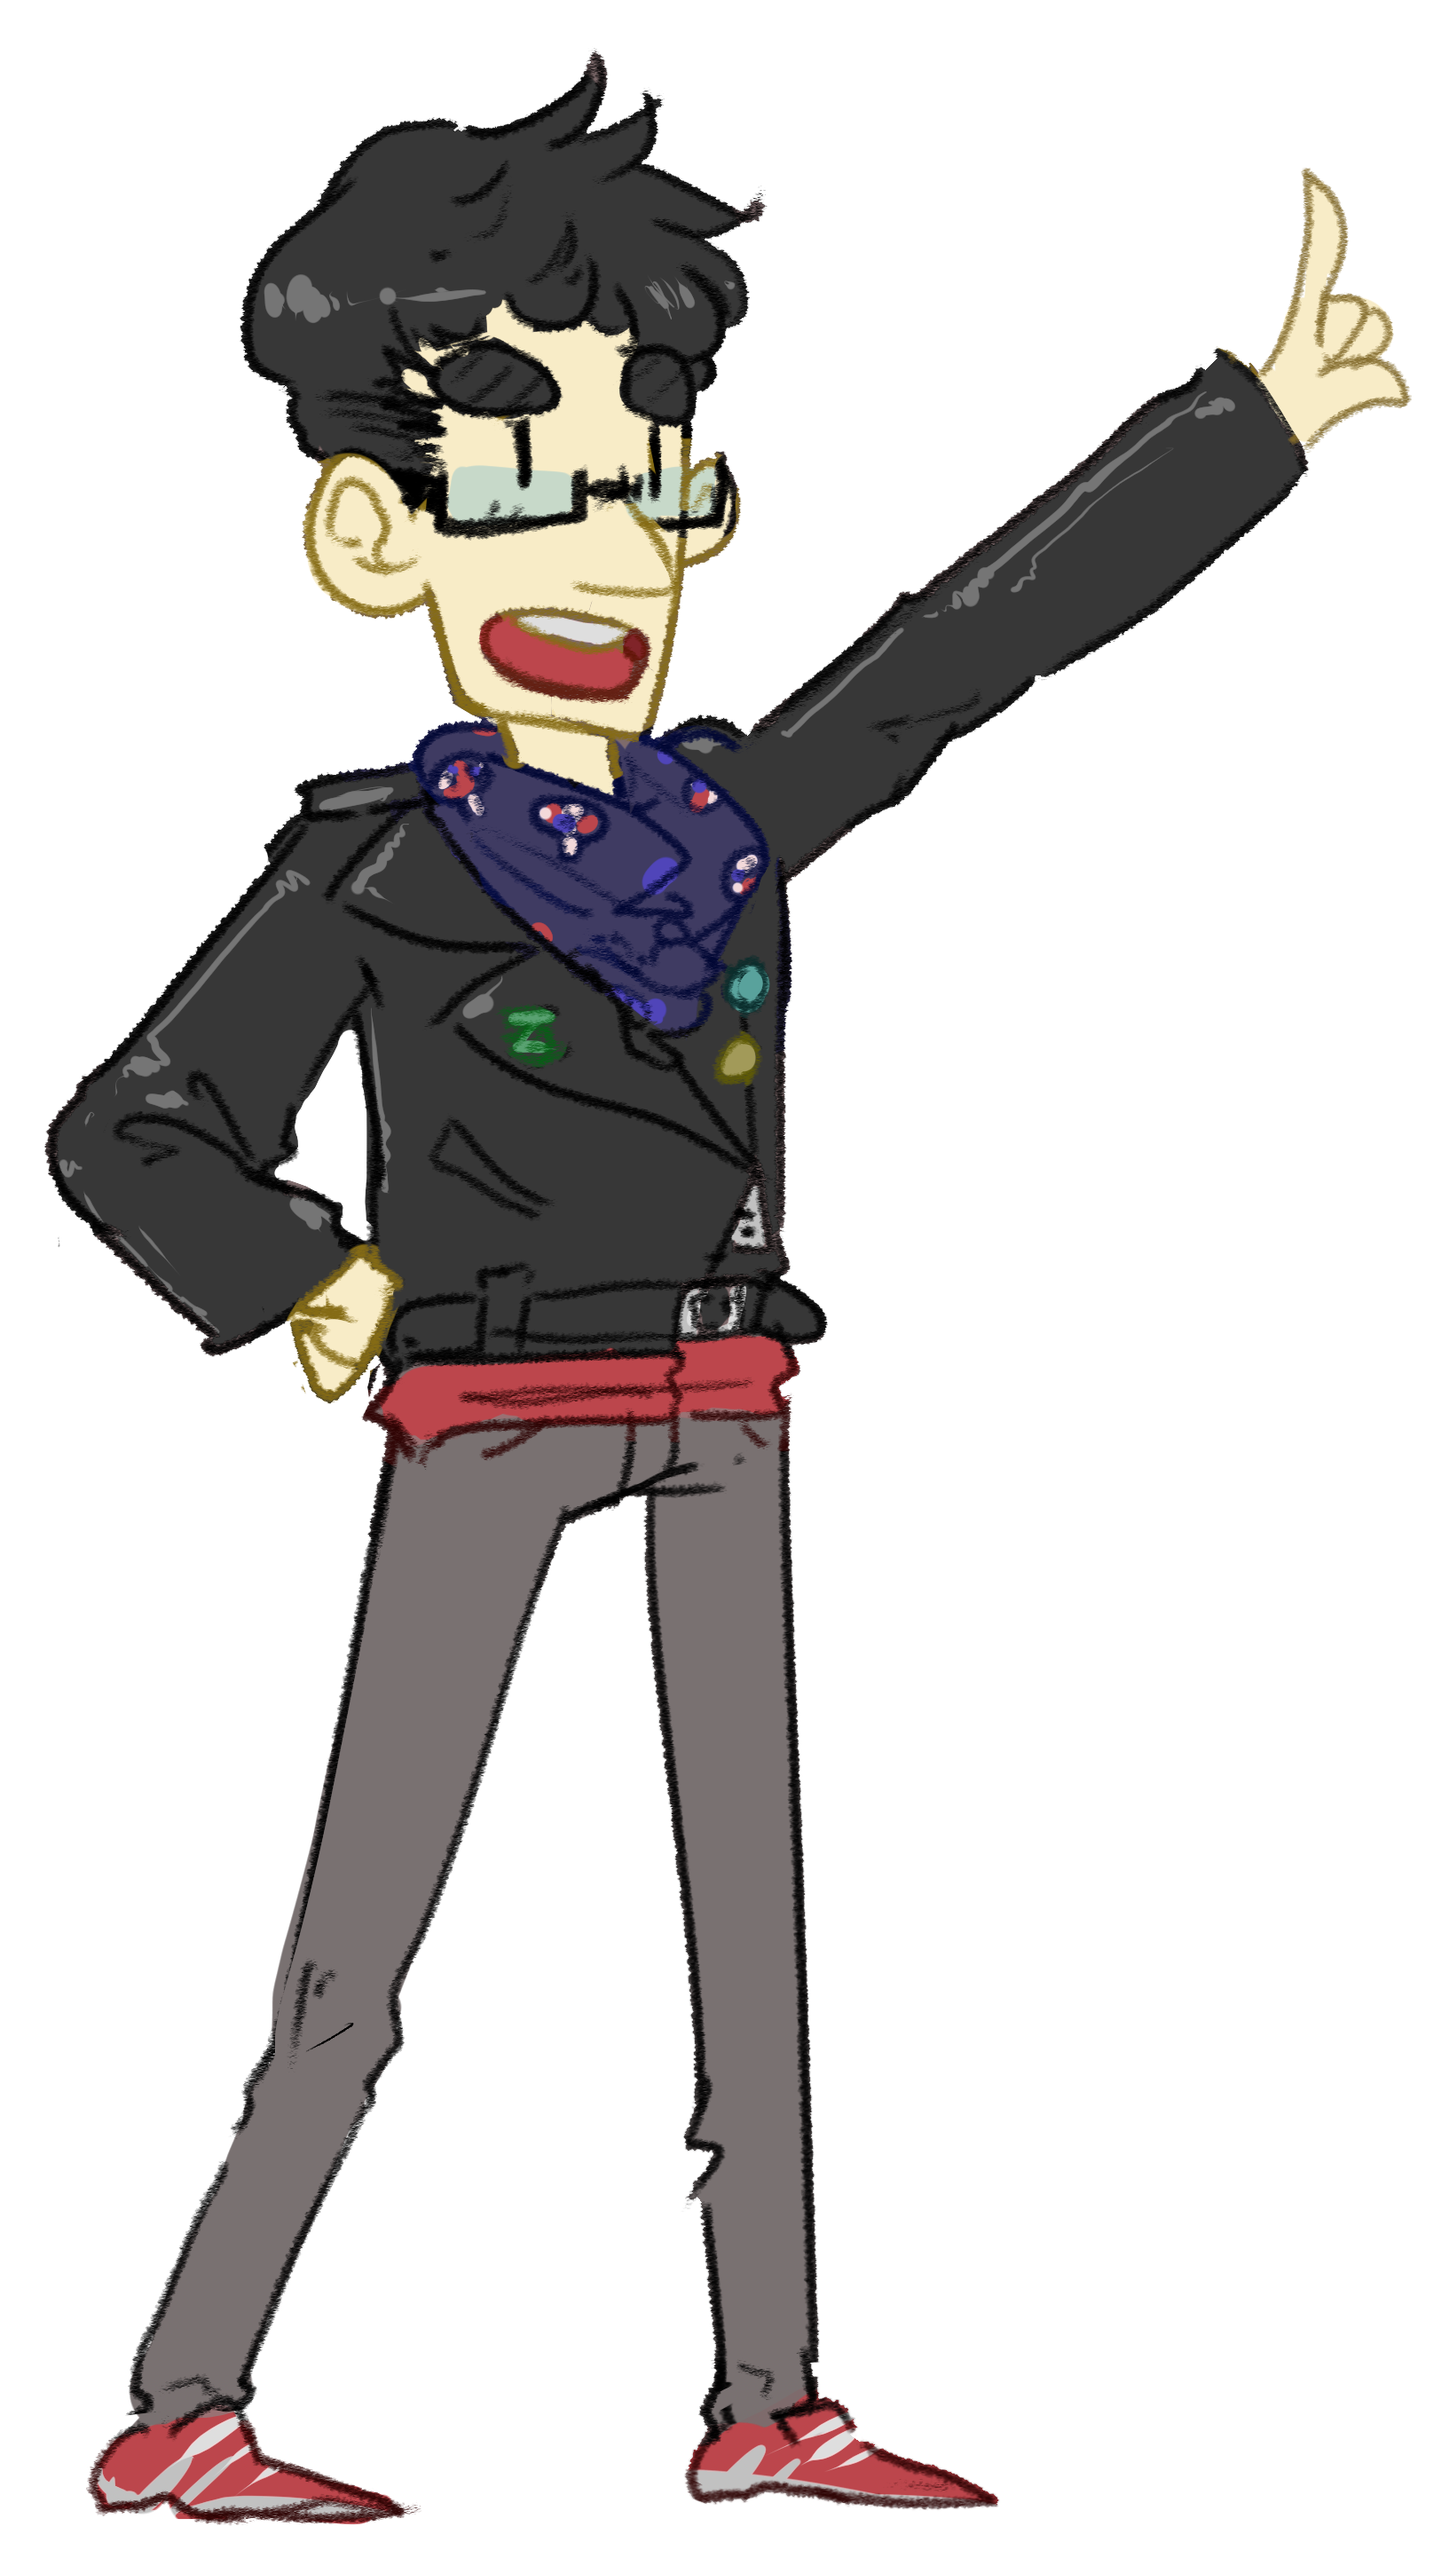
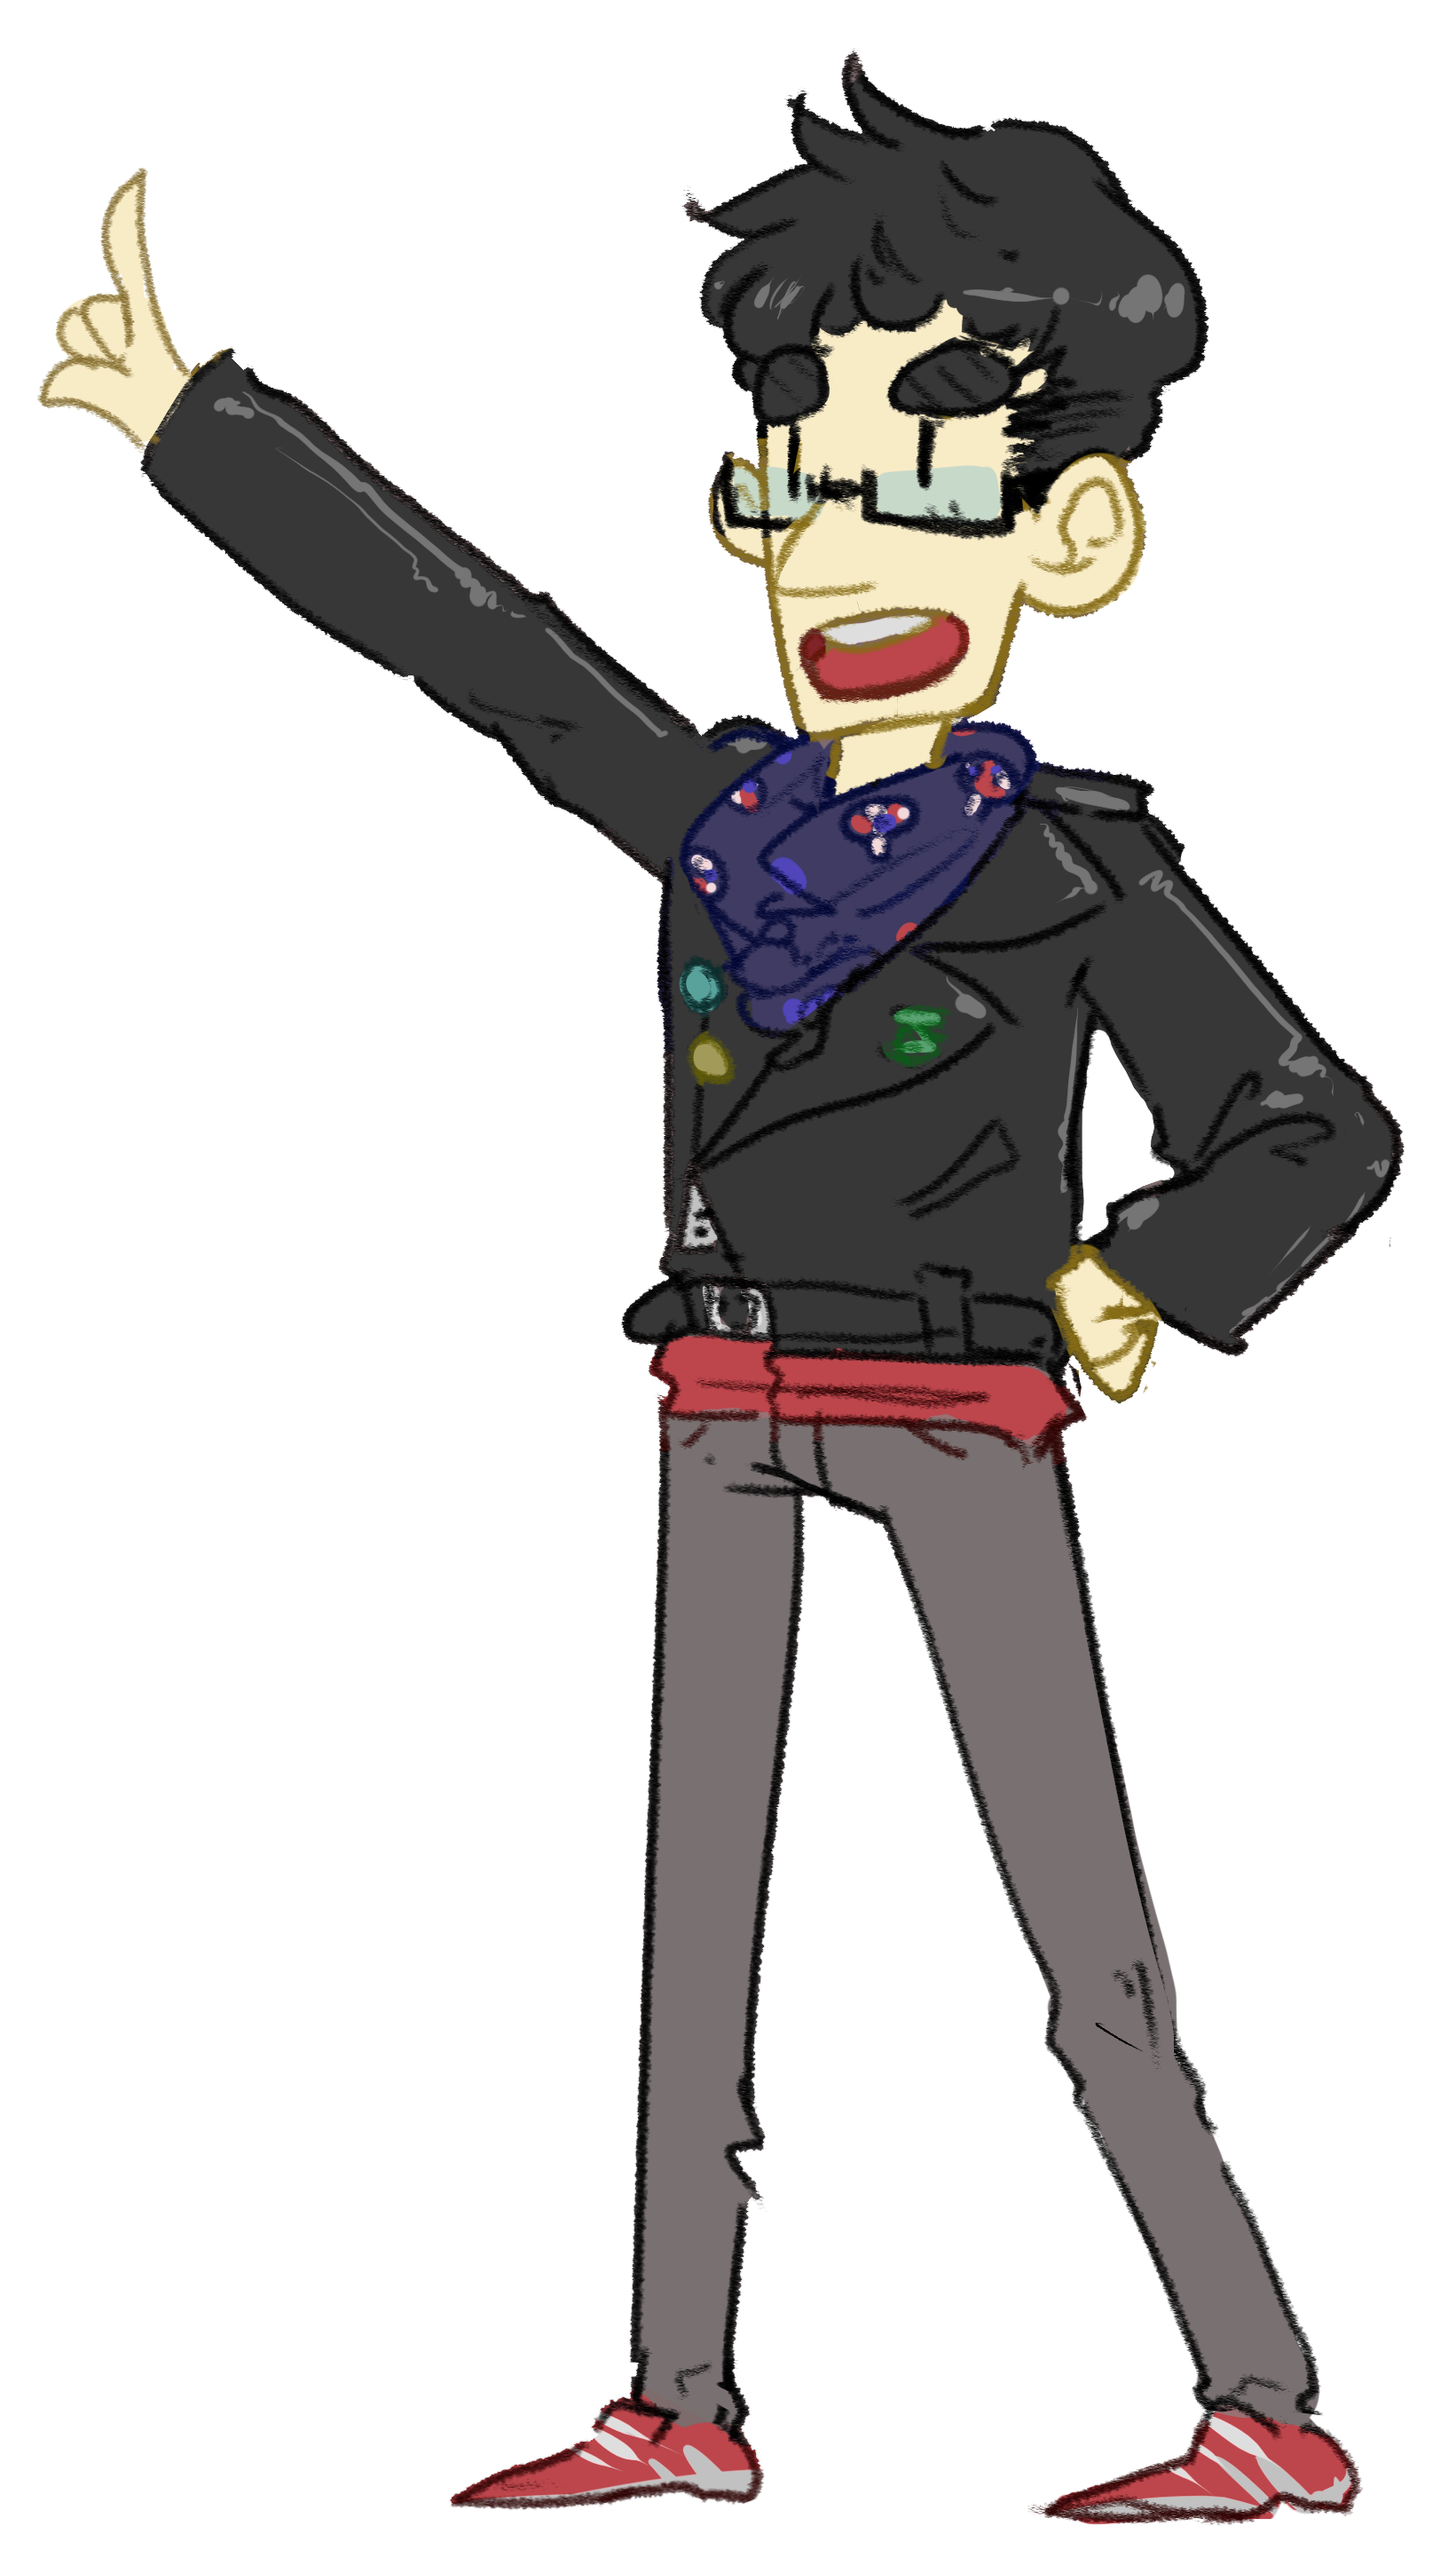
added background textures, moved ben, added subtle wobbliness

diff --git a/src/components/Bio/index.js b/src/components/Bio/index.js
@@ -2,11 +2,17 @@ import React, { Component } from 'react';
 
 import "./style.css";
 
+import GridItemGradient from "../GridItemGradient";
+
 class Bio extends Component {
   render() {
     return(
       <div className="bio gridItem" >
-      bio
+        <h2>Hi, I'm Ben!</h2>
+        <span>I'm a junior JavaScript developer and recent alumnus of the <a href="http://schoolofcode.co.uk/" rel="noopener noreferrer" target="_blank">School of Code</a> bootcamp. I love finding creative solutions to problems and making fun, memorable user experiences.</span><br />
+        <span>I am proficient in HTML, CSS, and JavaScript, including React.js, Node.js, and MongoDB. I'm great when working in a team or pair programming, and I'm very familiar with Agile project management methodology.</span><br />
+        <span>My interests include wrestling, cosplay, and eating overpriced food. <a href="https://github.com/brosell1/CV" rel="noopener noreferrer" target="_blank">Check out my Github!</a></span>
+        <GridItemGradient />
       </div>
     )
   }

diff --git a/src/components/LilBen/style.css b/src/components/LilBen/style.css
@@ -1,9 +1,27 @@
 .lilBen {
   position: absolute;
-  left: 8%;
+  right: 8%;
   bottom: 0vh;
   height: 50vh;
   width: auto;
-  margin: 1em;
   z-index: 5;
+}
+
+.lilBen:hover {
+  animation: wobble 0.5s;
+  animation-iteration-count: infinite;
+}
+
+@keyframes wobble {
+  0% { transform: translate(1px, 1px) rotate(0deg); }
+  10% { transform: translate(-1px, -2px) rotate(-1deg); }
+  20% { transform: translate(-3px, 0px) rotate(1deg); }
+  30% { transform: translate(3px, 2px) rotate(0deg); }
+  40% { transform: translate(1px, -1px) rotate(1deg); }
+  50% { transform: translate(-1px, 2px) rotate(-1deg); }
+  60% { transform: translate(-3px, 1px) rotate(0deg); }
+  70% { transform: translate(3px, 1px) rotate(-1deg); }
+  80% { transform: translate(-1px, -1px) rotate(1deg); }
+  90% { transform: translate(1px, 2px) rotate(0deg); }
+  100% { transform: translate(1px, -2px) rotate(-1deg); }
 }

diff --git a/src/components/Content/style.css b/src/components/Content/style.css
@@ -1,21 +1,28 @@
 .content {
 	z-index: 0;
 	height: 90vh;
-	margin: 2vh 11.5vw 2vh 11.5vw;
+	margin: 2em;
 	border-radius: 3px;
 	padding: 1em;
-	background-color: white;
 	text-align: center;
 	display: grid;
 	grid-gap: 1em;
 	grid-template-columns: auto auto auto auto;
 	grid-template-rows: auto auto auto auto auto;
+	background:
+	linear-gradient(135deg, ivory 22px, beige 22px, beige 24px, transparent 24px, transparent 67px, beige 67px, beige 69px, transparent 69px),
+	linear-gradient(225deg, ivory 22px, beige 22px, beige 24px, transparent 24px, transparent 67px, beige 67px, beige 69px, transparent 69px)0 64px;
+	background-color:ivory;
+	background-size: 64px 128px;
 }
 
 .gridItem {
-	background-color: white;
-	padding: 20px 0;
+	text-align: left;
+	background-color: ivory;
+	padding: 1em;
 	box-shadow: 2px 2px 5px 1px #888888;
+	position: relative;
+  z-index: 0
 }
 
 .ben {

diff --git a/src/components/ContactLinks/index.js b/src/components/ContactLinks/index.js
@@ -2,11 +2,16 @@ import React, { Component } from 'react';
 
 import "./style.css";
 
+import GridItemGradient from "../GridItemGradient";
+
 class ContactLinks extends Component {
   render() {
     return(
       <div className="contactLinks gridItem">
-      contact links
+          <a className="fa fa-twitter contactLinkButton" rel="noopener noreferrer" target="_blank" href="http://www.twitter.com/socbrosell"><span>@socbrosell</span></a>
+          <a className="fa fa-linkedin contactLinkButton" rel="noopener noreferrer" target="_blank" href="https://www.linkedin.com/in/brosell/" ><span>/brosell</span></a>
+          <a className="fa fa-github contactLinkButton" rel="noopener noreferrer" target="_blank" href="https://github.com/brosell1/CV" ><span>/brosell1</span></a>
+          <GridItemGradient />
       </div>
     )
   }

diff --git a/public/index.html b/public/index.html
@@ -10,6 +10,10 @@
     -->
     <link rel="manifest" href="%PUBLIC_URL%/manifest.json">
     <link rel="shortcut icon" href="%PUBLIC_URL%/favicon.ico">
+    <link href="https://fonts.googleapis.com/css?family=Montserrat:400,500,600,700" rel="stylesheet">
+    <link rel="stylesheet" href="https://cdnjs.cloudflare.com/ajax/libs/font-awesome/4.7.0/css/font-awesome.min.css">
+    <link rel="stylesheet" type="text/css" charset="UTF-8" href="https://cdnjs.cloudflare.com/ajax/libs/slick-carousel/1.6.0/slick.min.css" />
+    <link rel="stylesheet" type="text/css" href="https://cdnjs.cloudflare.com/ajax/libs/slick-carousel/1.6.0/slick-theme.min.css" />
     <!--
       Notice the use of %PUBLIC_URL% in the tags above.
       It will be replaced with the URL of the `public` folder during the build.

diff --git a/src/components/GridItemGradient/style.css b/src/components/GridItemGradient/style.css
@@ -1,0 +1,20 @@
+.texture {
+  background:
+  linear-gradient(135deg, ivory 22px, beige 22px, beige 24px, transparent 24px, transparent 67px, beige 67px, beige 69px, transparent 69px),
+  linear-gradient(225deg, ivory 22px, beige 22px, beige 24px, transparent 24px, transparent 67px, beige 67px, beige 69px, transparent 69px)0 64px;
+  background-color:ivory;
+  background-size: 64px 128px;
+}
+
+.gradient {
+  background: linear-gradient(350deg, #fffff000, #fffff0);
+}
+
+.gradientPos {
+  position: absolute;
+  bottom: 0;
+  left: 0;
+  height: 15vh;
+  width: 100%;
+  z-index: -1;
+}

diff --git a/src/App.js b/src/App.js
@@ -1,7 +1,7 @@
 import React, { Component } from "react";
 import "./App.css";
 
-import Content from "./components/Content";
+import ContentContainer from "./components/ContentContainer";
 import Curtains from "./components/Curtains";
 import Rope from "./components/Rope";
 import LilBen from "./components/LilBen";
@@ -29,7 +29,7 @@ class App extends Component {
 					handleCurtainsChange={this.handleCurtainsChange}
 					curtains={this.state.curtains}
 				/>
-				<Content />
+				<ContentContainer />
 				<LilBen />
 			</div>
 		);

diff --git a/src/components/ContactDetails/index.js b/src/components/ContactDetails/index.js
@@ -2,11 +2,17 @@ import React, { Component } from 'react';
 
 import "./style.css";
 
+import GridItemGradient from "../GridItemGradient";
+
 class ContactDetails extends Component {
   render() {
     return(
       <div  className="contactDetails gridItem">
-      contact details
+        <h3>Height: 180cm</h3>
+        <h3>Favourite Animal: Crab</h3>
+        <h3>Favourite Food: Butter</h3>
+        <h3>Star Sign: Capricorn</h3>
+        <GridItemGradient />
       </div>
     )
   }

diff --git a/src/components/ContactLinks/style.css b/src/components/ContactLinks/style.css
@@ -1,3 +1,24 @@
 .contactLinks {
   grid-row: 1/2;
+  display: flex;
+  flex-direction: column;
+  justify-content: center;
+}
+
+.contactLinkButton {
+  font-size: 6em;
+  color: #101010;
+  opacity: 0.8;
+  text-decoration: none;
+}
+
+.contactLinks > a > span {
+  display:hidden;
+  font-size: 50%;
+  font-family: "Montserrat:400", sans-serif;
+}
+
+.contactLinkButton:hover {
+  opacity: 0.6;
+  cursor: pointer;
 }

diff --git a/src/components/Carousel/index.js b/src/components/Carousel/index.js
@@ -2,11 +2,16 @@ import React, { Component } from 'react';
 
 import "./style.css";
 
+import GridItemGradient from "../GridItemGradient";
+
 class Carousel extends Component {
   render() {
     return(
       <div className="carousel gridItem" >
-      carousel
+        <div>
+        Carousel
+        </div>
+        <GridItemGradient />
       </div>
     )
   }

diff --git a/src/components/GridItemGradient/index.js b/src/components/GridItemGradient/index.js
@@ -1,0 +1,16 @@
+import React, { Component } from 'react';
+
+import "./style.css";
+
+class GridItemGradient extends Component {
+  render() {
+    return(
+      <div>
+        <div className="texture gradientPos" />
+        <div className="gradient gradientPos" />
+      </div>
+    )
+  }
+};
+
+export default GridItemGradient;

diff --git a/src/components/ContentContainer/index.js b/src/components/ContentContainer/index.js
@@ -1,0 +1,17 @@
+import React, { Component } from 'react';
+
+import Content from "../Content";
+
+import "./style.css";
+
+class ContentContainer extends Component {
+  render() {
+    return(
+      <div className="contentContainer">
+        <Content />
+      </div>
+    )
+  }
+}
+
+export default ContentContainer
